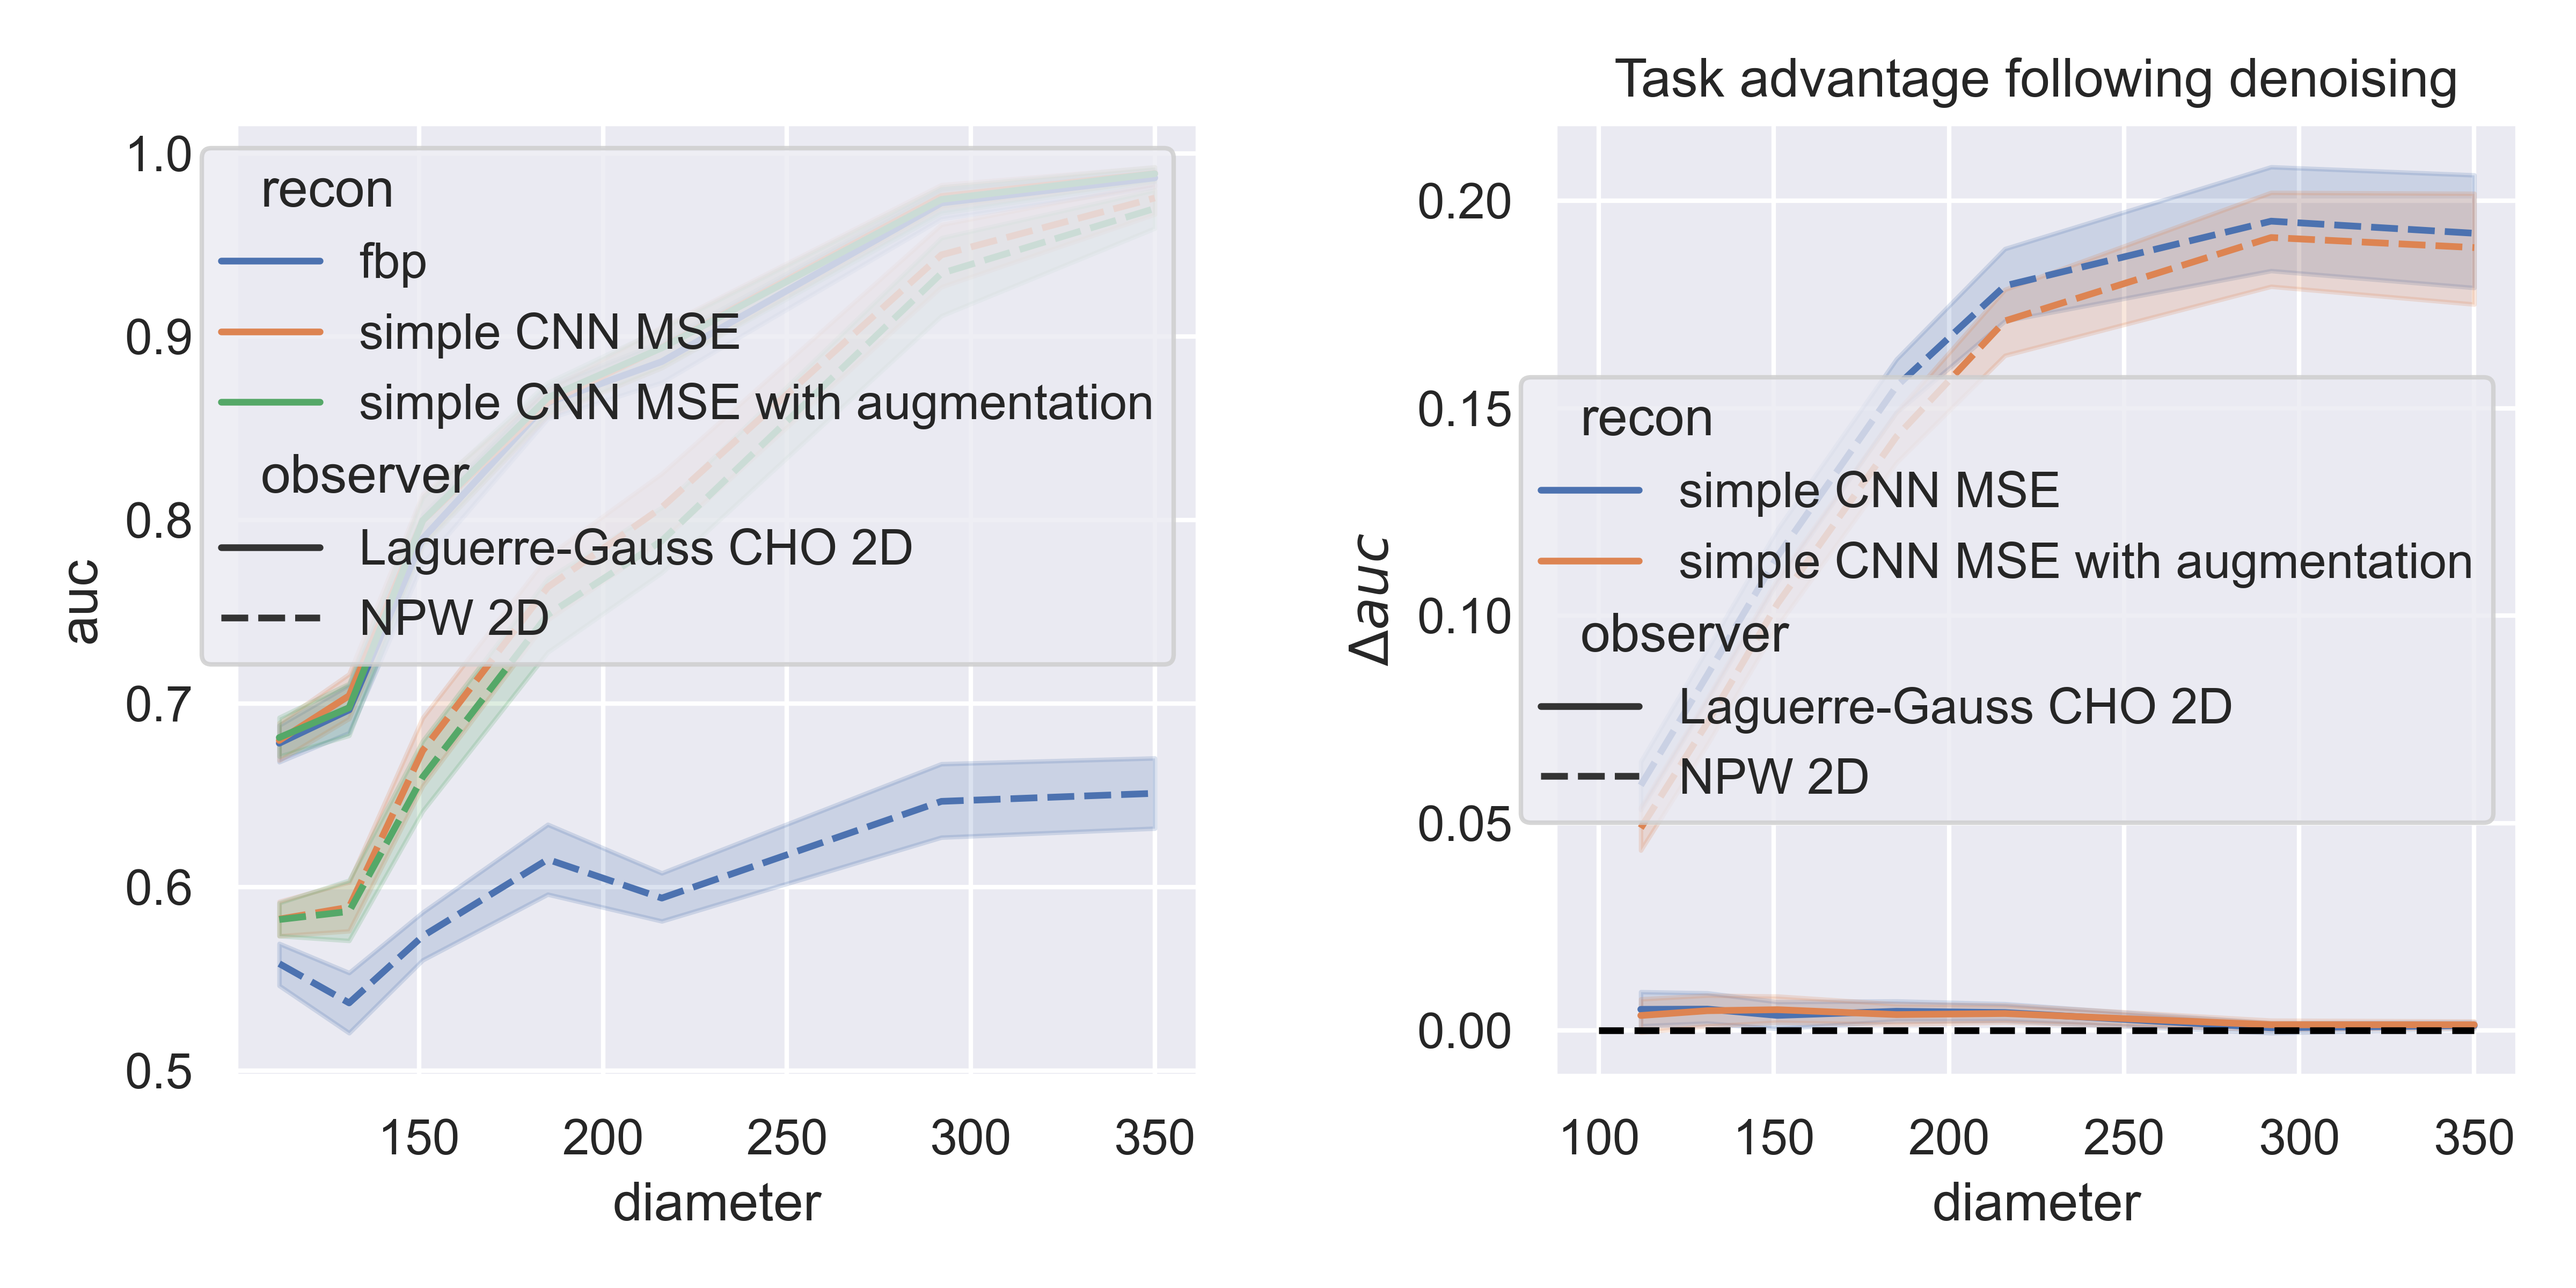
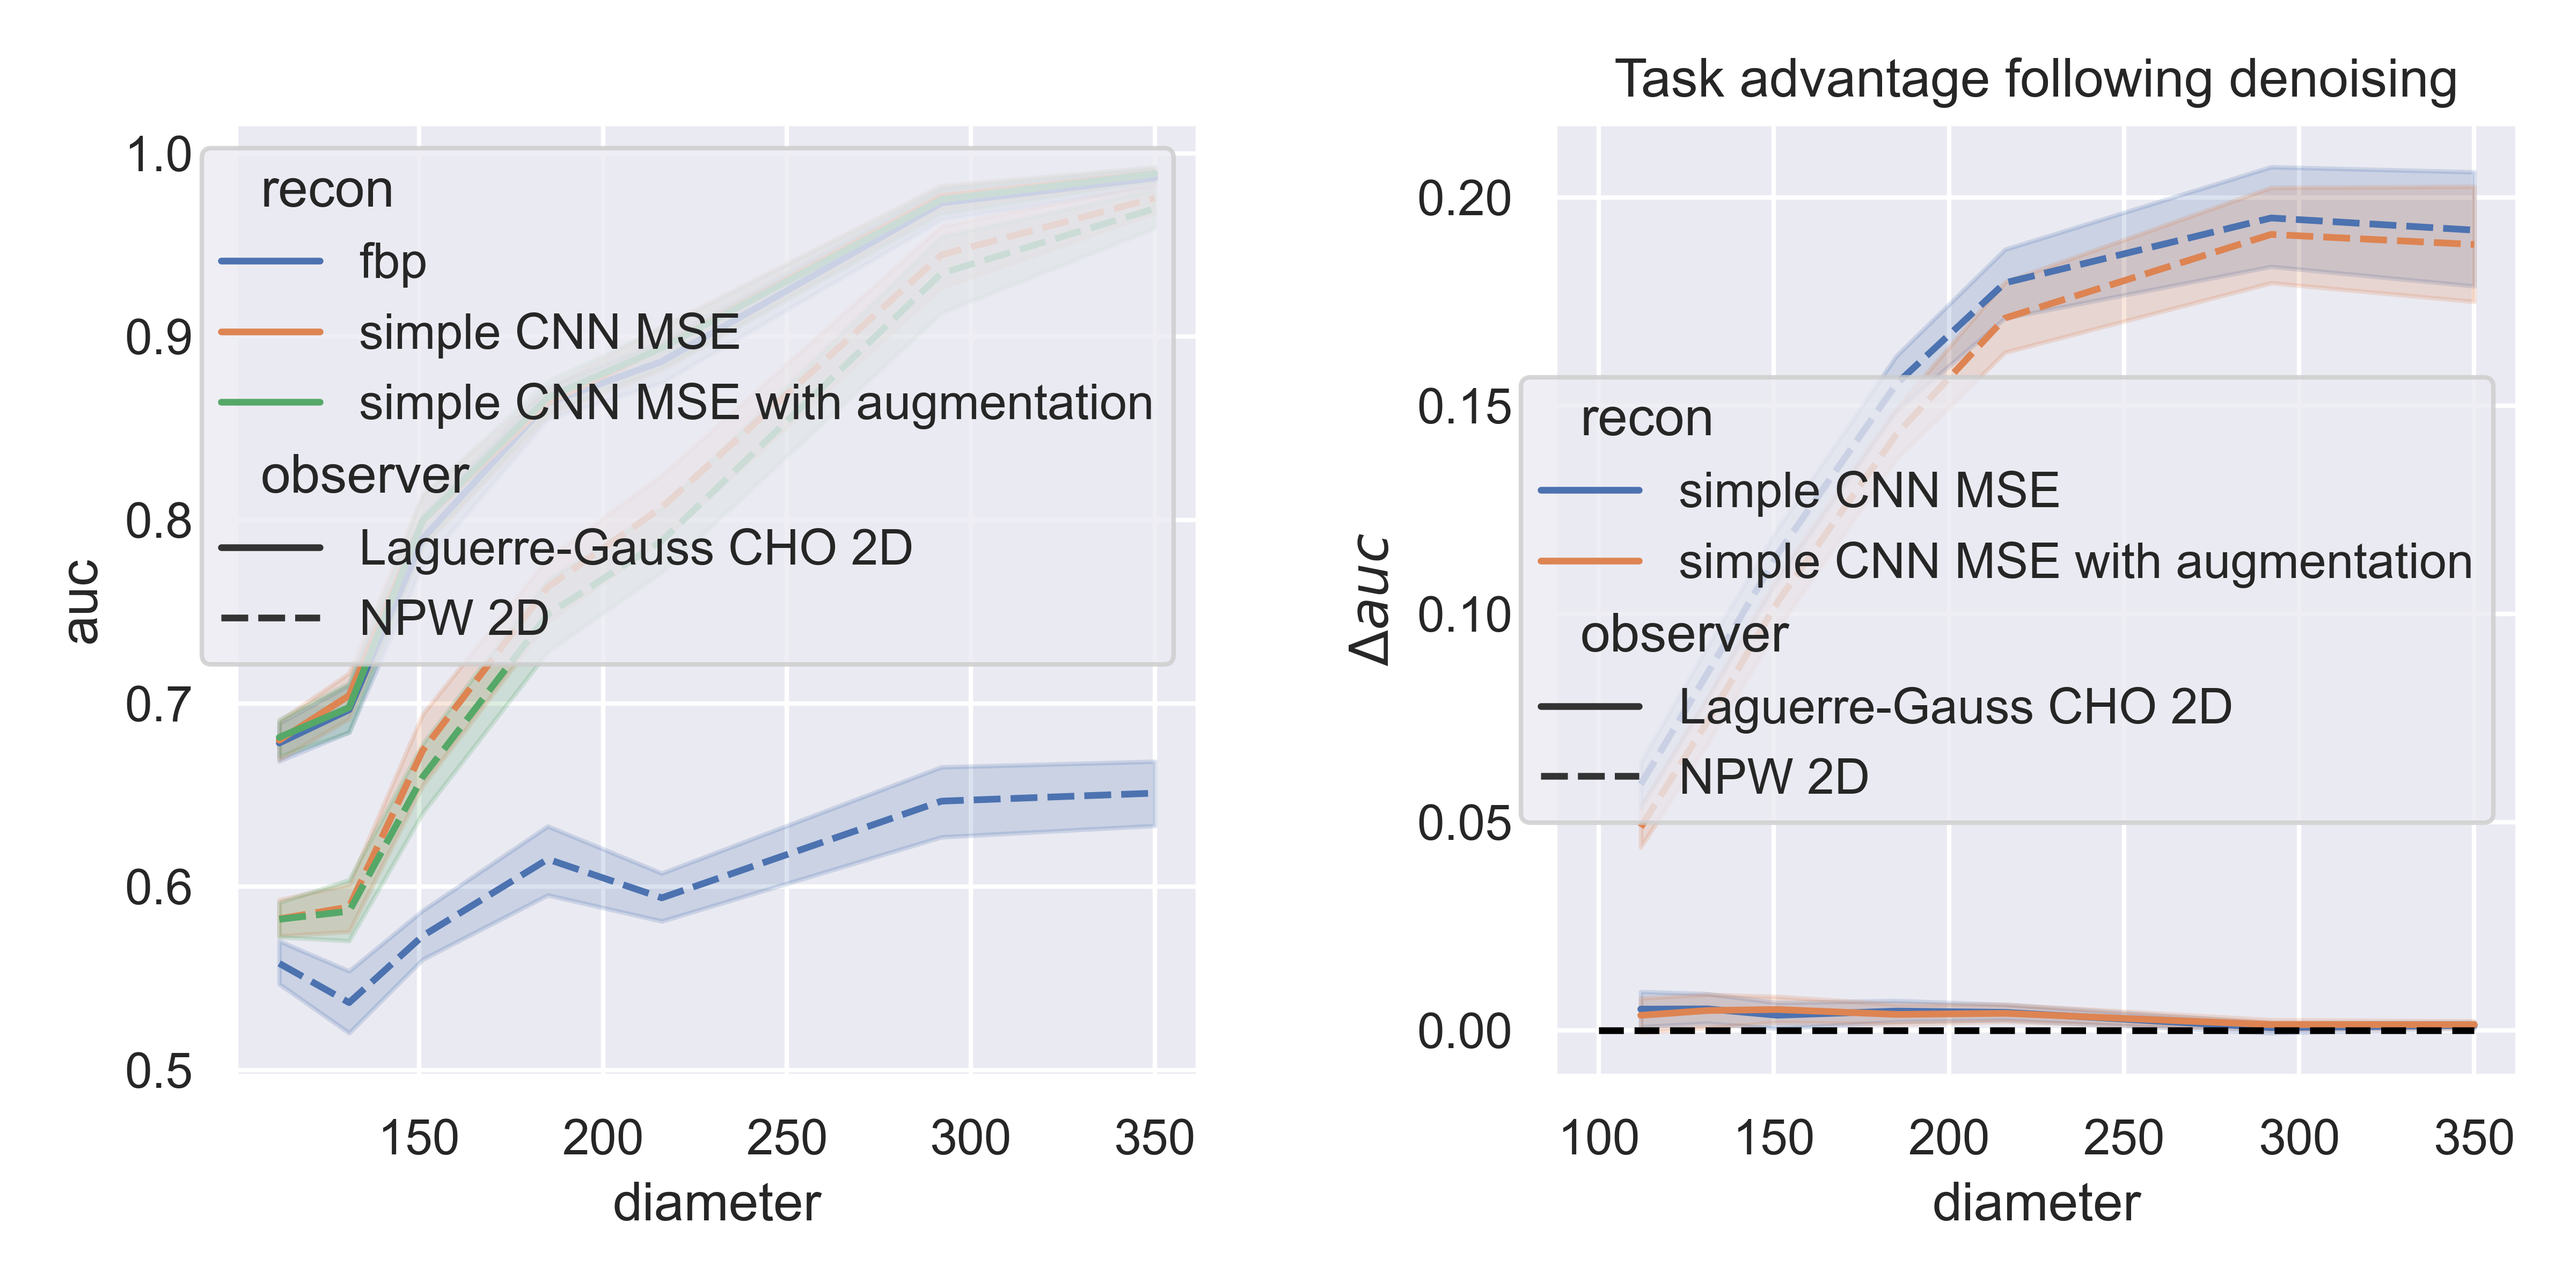
added before and after

diff --git a/plot_diameter_results.py b/plot_diameter_results.py
@@ -46,6 +46,28 @@ f.tight_layout()
 f.savefig('auc_v_dose_with_comp.png', dpi=600, facecolor='white')
 # %%
 f, axs = plt.subplots(1, 2, figsize = (8,4))
+sns.lineplot(ax=axs[0], data=res[(res['dose level [%]']==25) & (res['recon'] != 'simple CNN MSE with augmentation')], x='diameter', y='auc', hue='recon', style='observer') # | (res.diameter == 292) | (res.diameter == 350)
+temp = res[(res.diameter != 200)]
+
+# dose_lvl = temp[temp.recon == 'cnn-mse']['dose level [%]'].to_numpy()
+ref_auc = temp[temp.recon == 'fbp'].pop('auc')
+ref_auc = np.concatenate([ref_auc, ref_auc])
+delta_df = temp[temp.recon != 'fbp']
+delta_df['$\Delta auc$'] = delta_df['auc'] - ref_auc
+delta_df.pop('auc')
+delta_df.pop('snr')
+delta_df = delta_df[delta_df['recon'] != 'simple CNN MSE with augmentation']
+sns.lineplot(ax=axs[1], data=delta_df, x='diameter', y = '$\Delta auc$', hue='recon', style='observer')
+axs[1].hlines(y=0, xmin=100, xmax=350, color='black', linestyle='--')
+axs[1].set_title('Task advantage following denoising')
+f.tight_layout()
+f.savefig('auc_v_diameter_w_comp.png', dpi=600, facecolor='white')
+axs[0].legend(loc='upper center', bbox_to_anchor=(1.05, 1.45),
+          ncol=2, fancybox=True, shadow=False)
+axs[1].get_legend().remove()
+f.savefig('auc_v_diameter_no_augmentation.png', dpi=600, facecolor='white', bbox_inches='tight')
+# %%
+f, axs = plt.subplots(1, 2, figsize = (8,4))
 sns.lineplot(ax=axs[0], data=res[(res['dose level [%]']==25)], x='diameter', y='auc', hue='recon', style='observer') # | (res.diameter == 292) | (res.diameter == 350)
 temp = res[(res.diameter != 200)]
 
